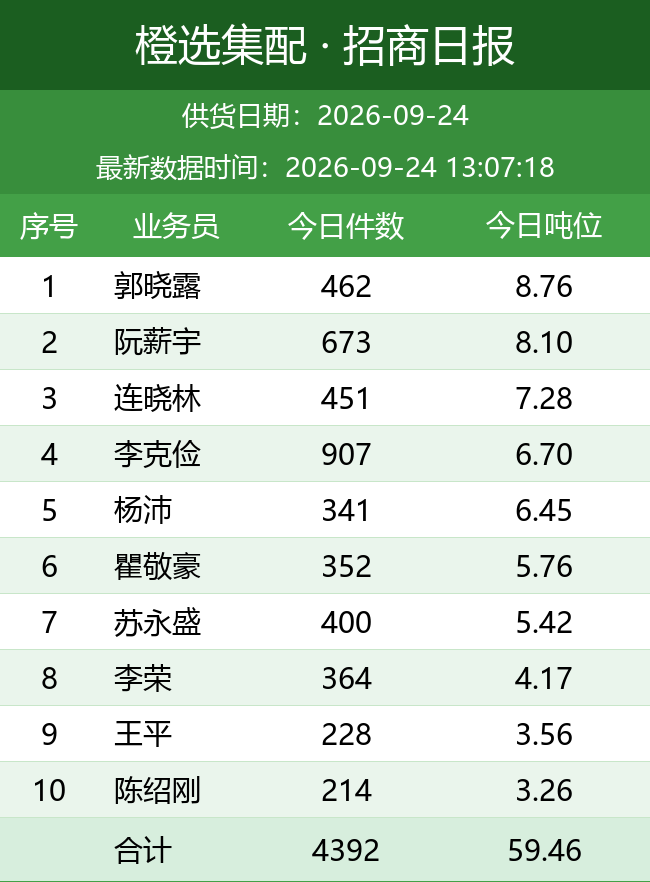
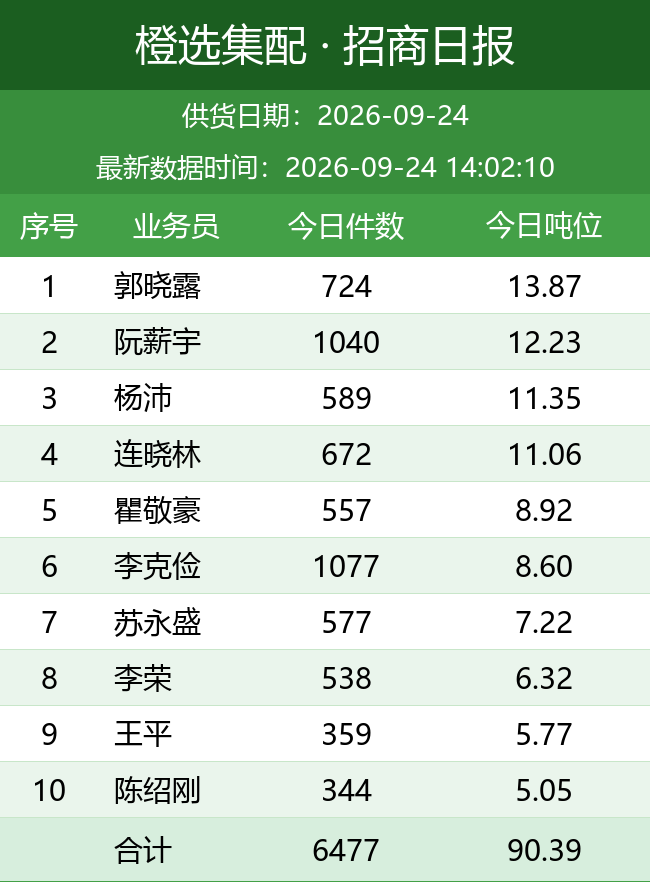
自动更新日报图片

diff --git a/daily_report/index.html b/daily_report/index.html
@@ -11,7 +11,7 @@ img { max-width: 100%; border: 1px solid #e5e5e5; margin-bottom: 24px; display: 
 </style>
 </head>
 <body>
-<h1>橙选集配日报图片（20260924_130934）</h1>
+<h1>橙选集配日报图片（20260924_140458）</h1>
 <img src="bd_latest.png" alt="BD 日报">
 <img src="wh_latest.png" alt="城市仓日报">
 <img src="zs_latest.png" alt="招商日报">
